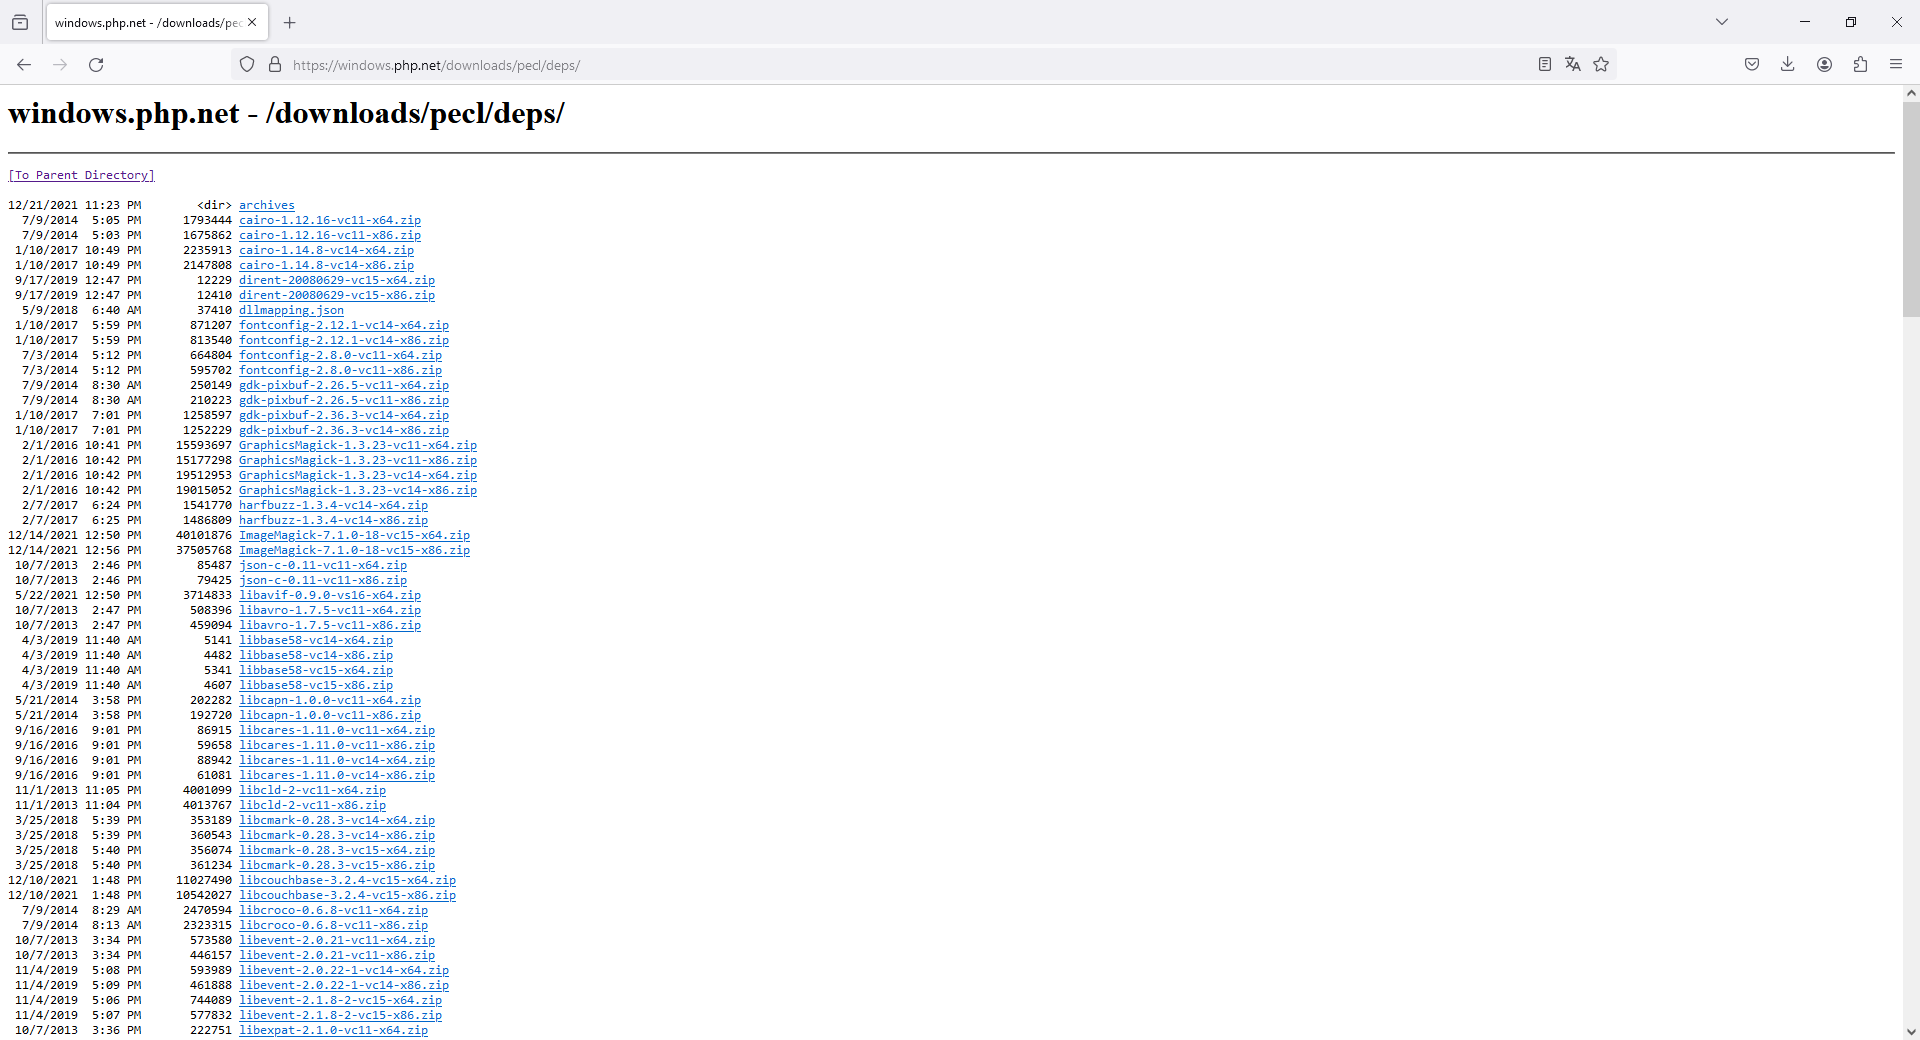
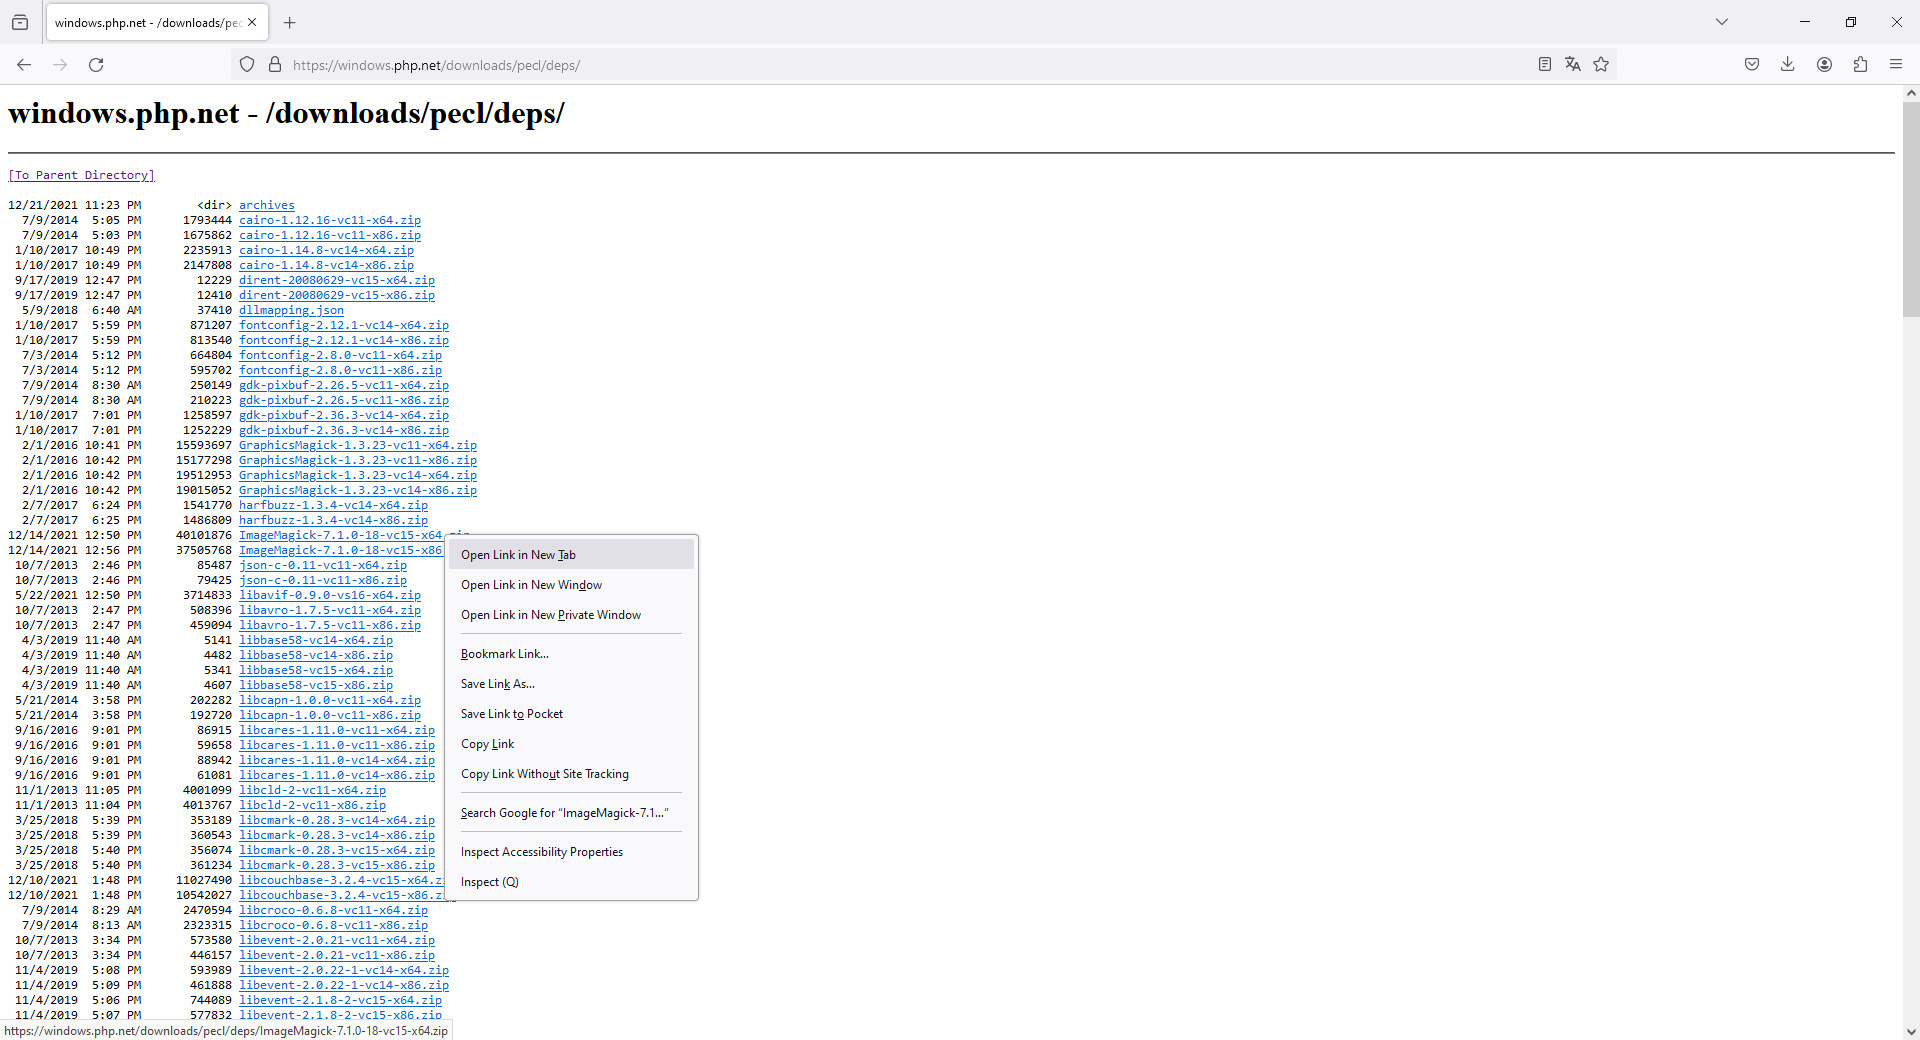
update

Changed region(s): [[0.2188, 0.4923, 0.375, 0.7077], [0.2188, 0.7385, 0.3438, 0.8615], [0.0, 0.9846, 0.25, 1.0]]

diff --git a/3 - PHP imagick windows depdency/README.md b/3 - PHP imagick windows depdency/README.md
@@ -1,0 +1,13 @@
+```
+https://windows.php.net/downloads/pecl/deps/
+```
+
+![Image](1.PNG)
+![Image](2.PNG)
+![Image](3.PNG)
+![Image](4.PNG)
+![Image](5.PNG)
+![Image](6.PNG)
+![Image](7.PNG)
+![Image](8.PNG)
+![Image](9.PNG)

diff --git a/4 - Download and Install Ghostscript/README.md b/4 - Download and Install Ghostscript/README.md
@@ -1,5 +1,6 @@
+```
 https://www.ghostscript.com/releases/gsdnld.html
-
+```
 
 imagemagick FailedToExecuteCommand `"gswin64c.exe" when converting pdf
 
